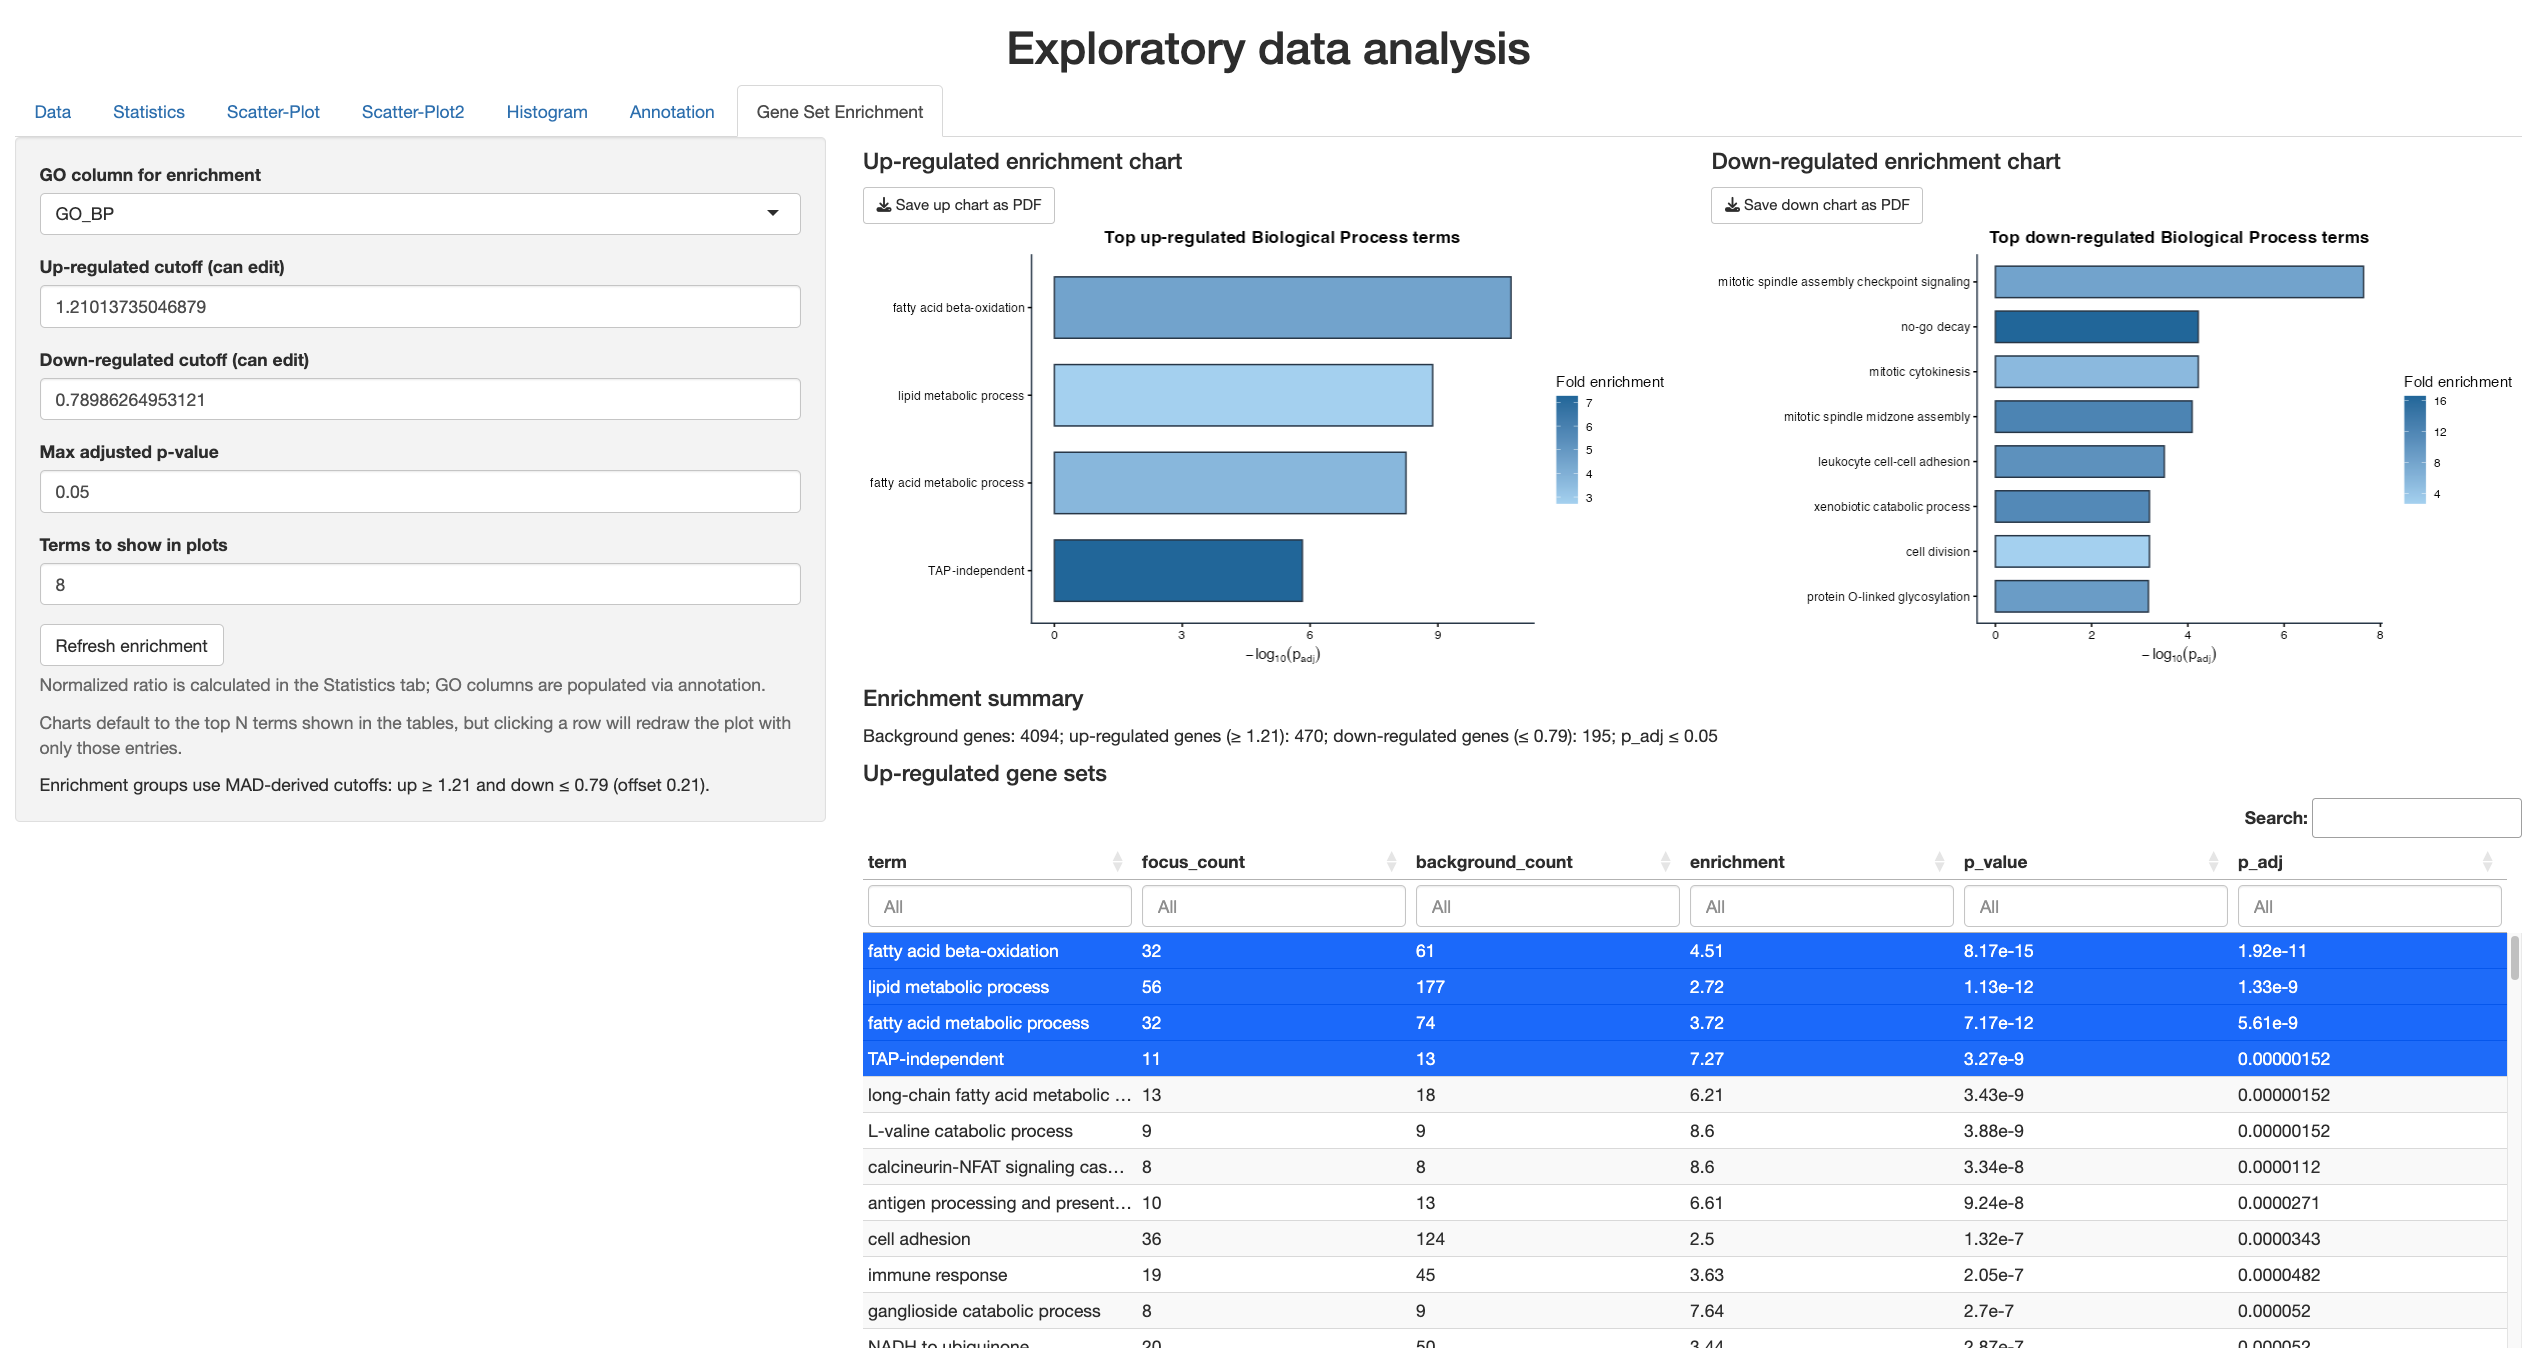
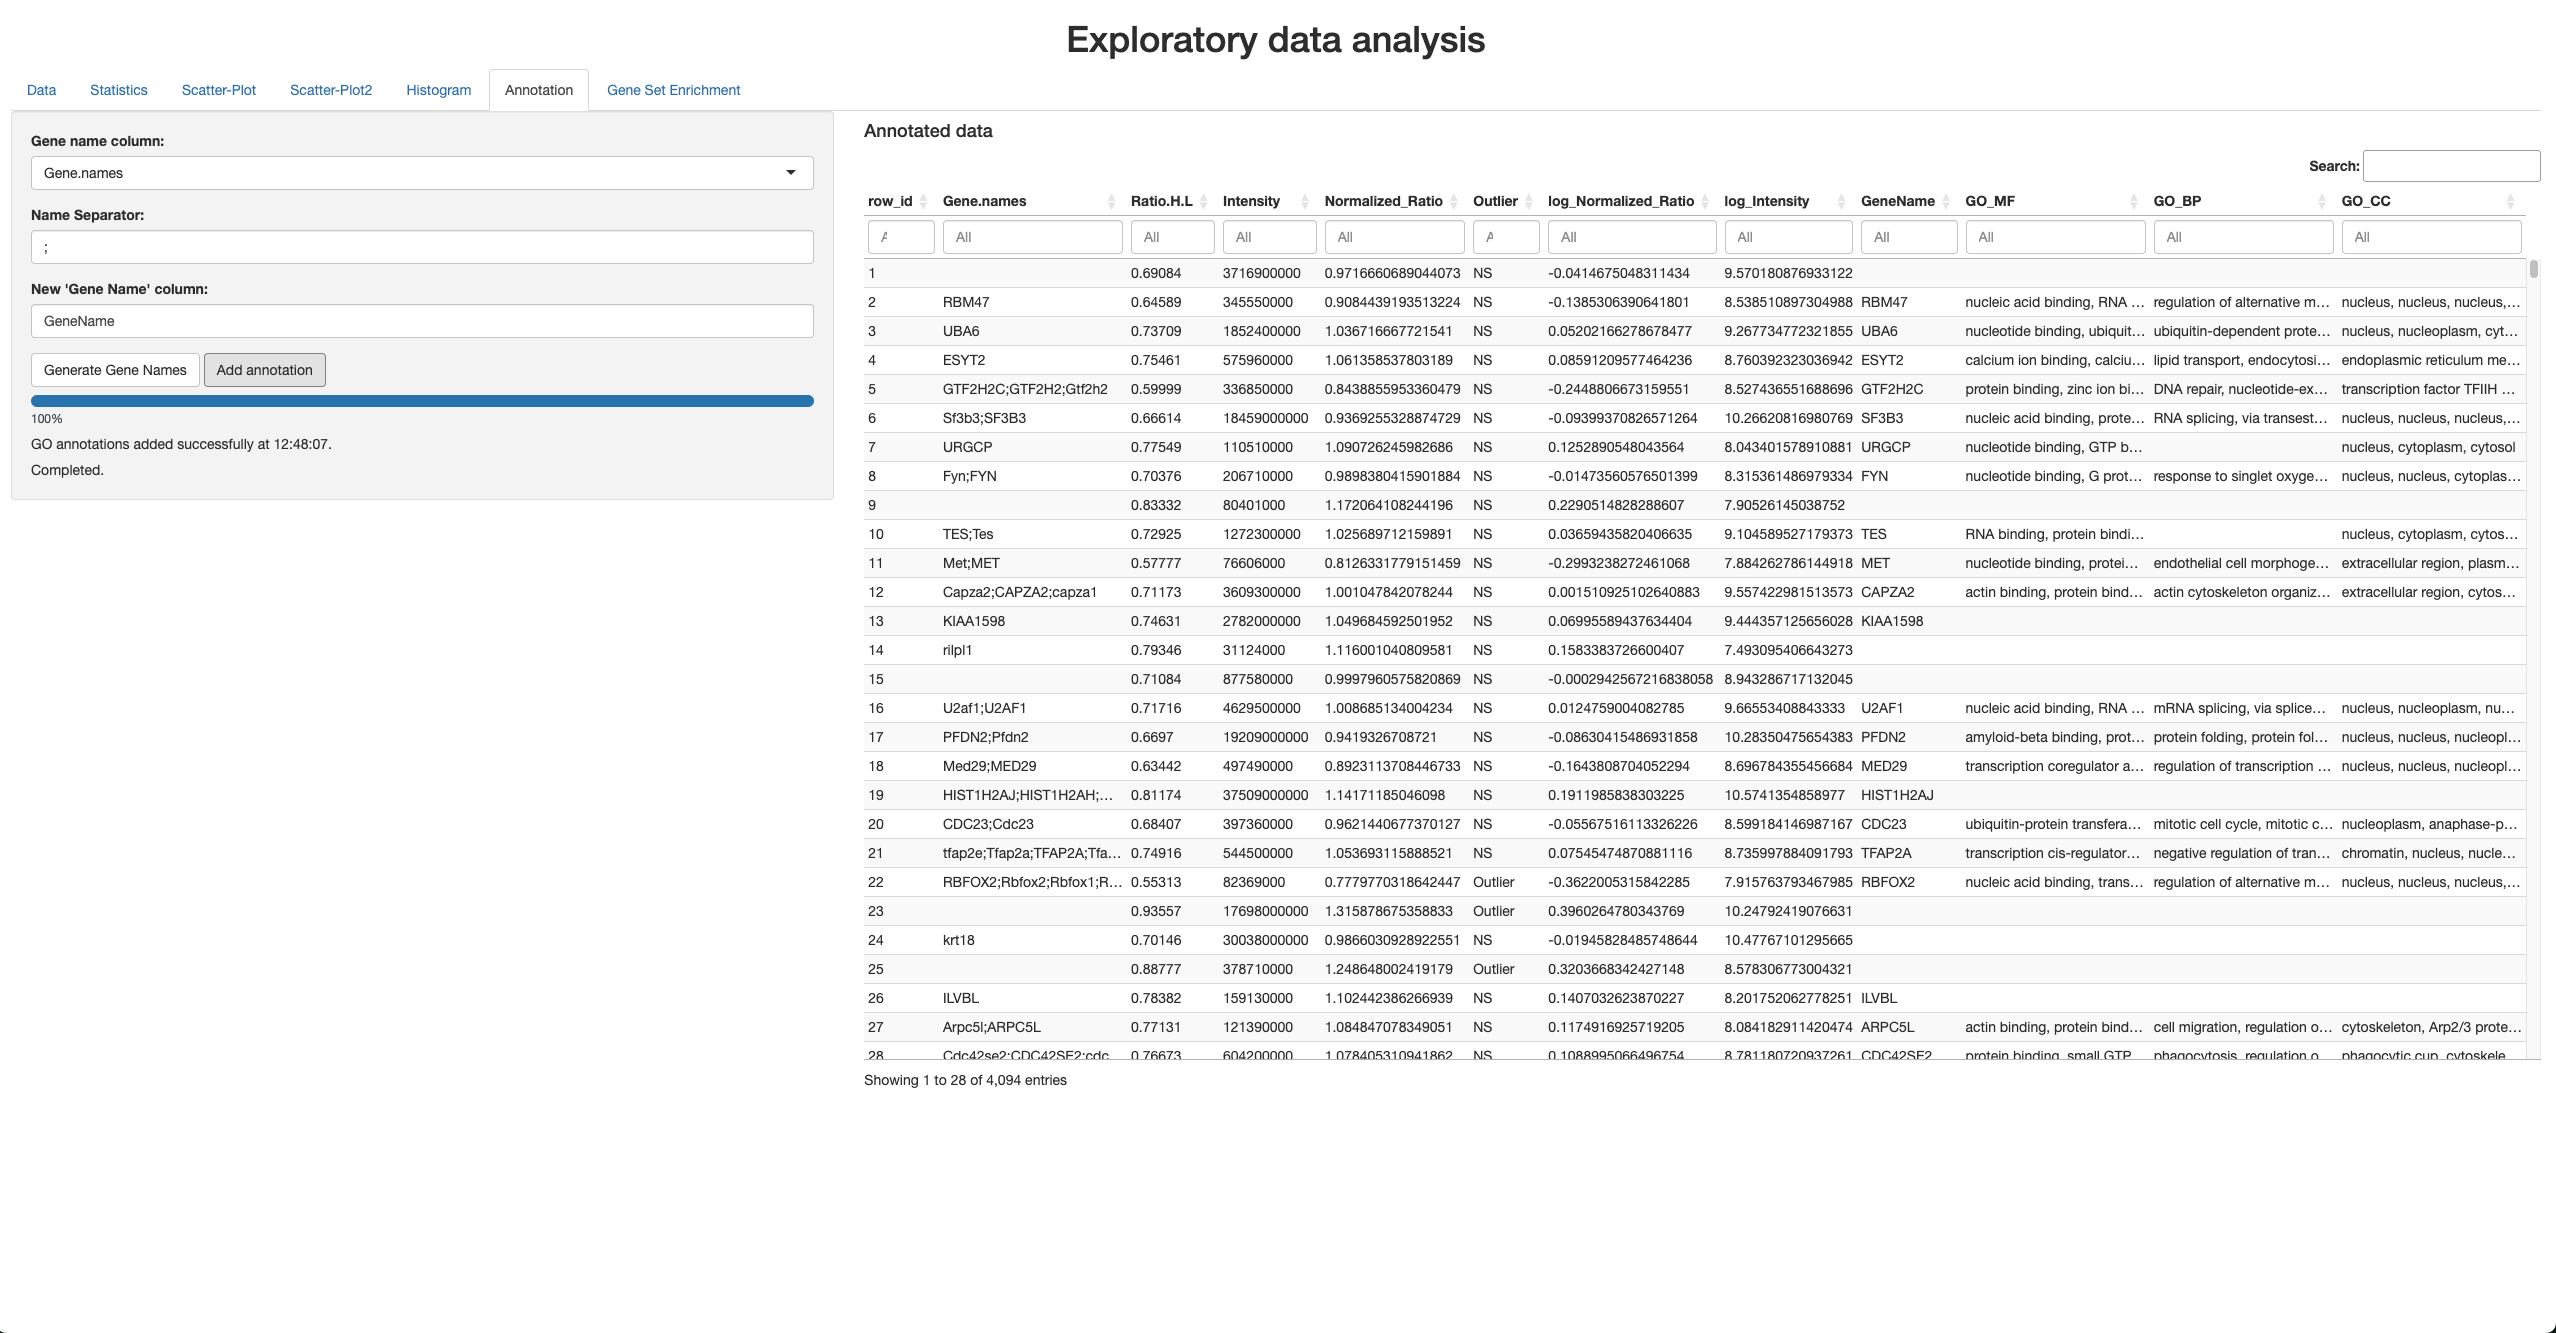
refine README

diff --git a/README.md b/README.md
@@ -78,8 +78,11 @@ Or in RStudio, open `app.R` and click **Run App**.
 1. Data upload, filtering, and normalization summary along with the GSEA workflow.
 ![Upload and enrichment overview](ss1.png)
 
-2. Gene Set Enrichment tab showing the filtered tables and plots.
-![Enrichment tables and charts](ss2.png)
+2. Scatter-Plot tab showing differentially expressed protein groups found in statistics tab
+![Explore DE proteins](ss2.png)
 
 3. Annotation tab with generated gene names and progress feedback.
 ![Annotation workflow](ss3.png)
+
+4. Gene Set Enrichment tab showing the filtered tables and plots.
+![GSE workflow](ss4.png)
